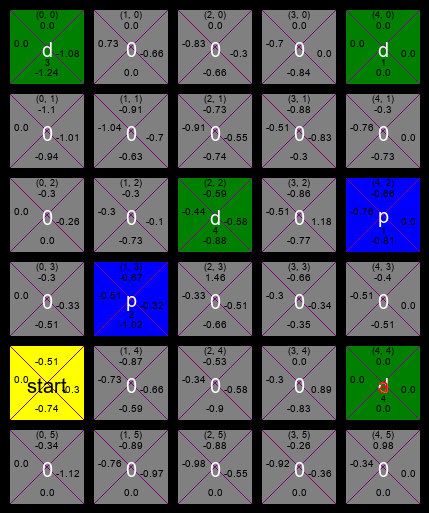
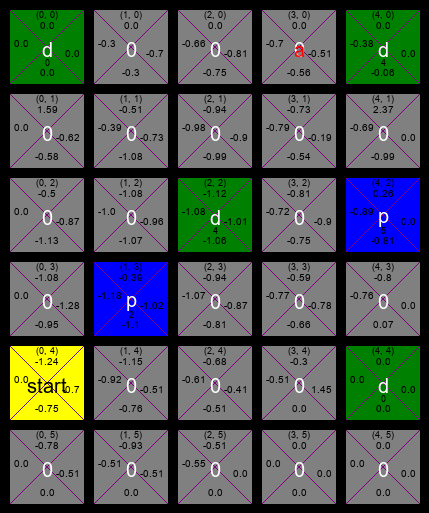
Add some more agent monitor

diff --git a/main.py b/main.py
@@ -152,7 +152,6 @@ def doSteps(steps, policy):
 
         action = ''
         reward = -1
-        print(valid_actions)
 
         if (policy == 'PRANDOM'):
             action, reward = chooseRandomAction(valid_actions)
@@ -160,8 +159,7 @@ def doSteps(steps, policy):
             action, reward = exploitAction(state, valid_actions, epsilon)
         elif (policy == 'PGREEDY'):
             action, reward = greedyAction(state, valid_actions)
-        print(action)
-        # print("action:", action)
+
 
         # has_block gets updated here
         applyAction(action)
@@ -177,7 +175,6 @@ def doSteps(steps, policy):
             round((1-alpha)*Q(state, action) + alpha*(reward + gamma*maxQ(next_state, next_valid_actions)), 2)
 
         # keep track of prev state for step visualize part
-
         prev_x = x
         prev_y = y
 
@@ -186,6 +183,7 @@ def doSteps(steps, policy):
         y = next_y
 
         # if terminal state reached
+        # reset world, put agent back at start
         if len(pick_up_loc) == 0 and len(drop_off_loc) == 0:
             print("\nTerminal state reached")
             done = True
@@ -196,6 +194,10 @@ def doSteps(steps, policy):
             has_block = False
             done = False
             _, _, world = ReadWorld().fill_world('testworld.txt')
+            updateDropAndPickSpots(h, w, q_table, False,
+                                   drop_off_loc, pick_up_loc, vis_objs['q_table_no_block'], world)
+            updateDropAndPickSpots(h, w, q_table, True,
+                                   drop_off_loc, pick_up_loc, vis_objs['q_table_with_block'], world)
             print('episode ', episode, '| agent takes:', count_steps)
             print('q_table after:')
             print(q_table)
@@ -213,29 +215,33 @@ def doSteps(steps, policy):
         count_steps += 1
 
         # visualize each step
-        if steps != 500:
+        watch = True
+
+        if steps != 500 and watch:
             print('\n' * 5)
             # print(q_table)
+            print(valid_actions)
+            print('action: {:5s}'.format(action), '| reward:', reward)
             if has_block:
-                updateCell(h, w, q_table, world, vis_objs['q_table_no_block'],
-                           has_block, prev_x, prev_y, start_x, start_y)
+                cv.destroyWindow('With no block')
                 updateCell(h, w, q_table, world, vis_objs['q_table_with_block'],
                            has_block, prev_x, prev_y, start_x, start_y)
                 putAgent(h, w, q_table, world, vis_objs['q_table_with_block'], has_block, x, y, start_x, start_y)
                 img_b = cv.imread('q_table_with_block.png')
-                cv.destroyWindow('With no block')
                 cv.imshow('With block', img_b)
                 cv.waitKey(0)
-            else:
                 updateCell(h, w, q_table, world, vis_objs['q_table_with_block'],
-                           has_block, prev_x, prev_y, start_x, start_y)
+                           has_block, x, y, start_x, start_y)
+            else:
+                cv.destroyWindow('With block')
                 updateCell(h, w, q_table, world, vis_objs['q_table_no_block'],
                            has_block, prev_x, prev_y, start_x, start_y)
                 putAgent(h, w, q_table, world, vis_objs['q_table_no_block'], has_block, x, y, start_x, start_y)
                 img_nb = cv.imread('q_table_no_block.png')
-                cv.destroyWindow('With block')
                 cv.imshow('With no block', img_nb)
                 cv.waitKey(0)
+                updateCell(h, w, q_table, world, vis_objs['q_table_no_block'],
+                           has_block, x, y, start_x, start_y)
 
     if step + 1 == SECOND_STEPS:
         print('episode ', episode, '| agent takes:', count_steps)

diff --git a/vis_funcs.py b/vis_funcs.py
@@ -13,14 +13,14 @@ def initWorld(h, w, world, world_vl, x, y):
             else:
                 world_vl.write_block(world[(c, r)]['coor'], world[(c, r)]['action'], 'white')
             world_vl.write_block(world[(c, r)]['coor'], str(world[(c, r)]['coor']), 'black', 'n', 15)
-
+    print('Done initializing visual')
 
 def updateWorld(h, w, world, world_vl):
     for r in range(h):
         for c in range(w):
             if world[(c, r)]['action'] == 'd' or world[(c, r)]['action'] == 'p':
                 world_vl.write_block(world[(c, r)]['coor'], str(world[(c, r)]['no_of_blocks']), 'black', pos='s')
-
+    print('Done updating visual')
 
 def initQTableWorld(h, w, world, world_vl, x, y):
     for r in range(h):
@@ -35,6 +35,7 @@ def initQTableWorld(h, w, world, world_vl, x, y):
                 world_vl.put_x((c, r), 'purple')
                 world_vl.write_block(world[(c, r)]['coor'], world[(c, r)]['action'], 'white')
             world_vl.write_block(world[(c, r)]['coor'], str(world[(c, r)]['coor']), 'black', 'n', 9, offset_u=10)
+    print('Done initializing q_table')
 
 def updateQTableWorld(h, w, world, world_vl, x, y):
     for r in range(h):
@@ -42,7 +43,7 @@ def updateQTableWorld(h, w, world, world_vl, x, y):
             if world[(c, r)]['action'] == 'd' or world[(c, r)]['action'] == 'p':
                 world_vl.write_block(world[(c, r)]['coor'], str(world[(c, r)]['no_of_blocks']), 'black',
                                      pos='s', font_s=9, offset_u=10)
-
+    print('Done updating q_table')
 
 def fillQValues(h, w, q_table, world_vl, has_block):
     action = ['n', 's', 'e', 'w']
@@ -55,7 +56,7 @@ def fillQValues(h, w, q_table, world_vl, has_block):
             for i, a in enumerate(action):
                 world_vl.write_block((r, c), str(q_table[state][i]), 'black',
                                      pos=a, font_s=10)
-
+    print('Done filling q_table')
 
 def putAgent(h, w, q_table, world, world_vl, has_block, x, y, start_x, start_y):
     updateCell(h, w, q_table, world, world_vl, has_block, x, y, start_x, start_y)
@@ -87,4 +88,23 @@ def updateCell(h, w, q_table, world, world_vl, has_block, prev_x, prev_y, start_
                              pos=a, font_s=10)
 
 
+def updateDropAndPickSpots(h, w, q_table, has_block, drop_off_loc, pick_up_loc, world_vl, world):
+    loc_list = drop_off_loc + pick_up_loc
+    action = ['n', 's', 'e', 'w']
+    q_offset = 0
+    for c in loc_list:
+        if world[c]['action'] == 'd': world_vl.fill_block(world[c]['coor'], 'green')
+        if world[c]['action'] == 'p': world_vl.fill_block(world[c]['coor'], 'blue')
+        world_vl.put_x(c, 'purple')
+        world_vl.write_block(world[c]['coor'], world[c]['action'], 'white')
+        world_vl.write_block(world[c]['coor'],
+                             str(world[c]['coor']), 'black', 'n', 9, offset_u=10)
+        world_vl.write_block(world[c]['coor'], str(world[c]['no_of_blocks']), 'black',
+                             pos='s', font_s=9, offset_u=10)
+        if (has_block == True):
+            q_offset = w * h
+        state = getStateFromCoords(c[1], c[0]) + q_offset
+        for i, a in enumerate(action):
+            world_vl.write_block(c, str(q_table[state][i]), 'black',
+                                 pos=a, font_s=10)
 

diff --git a/Visualize/visualize.py b/Visualize/visualize.py
@@ -28,7 +28,6 @@ class Visualize:
             draw.line([(start_p_c, 0), (start_p_c, img_h)], fill=0, width=gap + 1)
 
         img.save('%s.png' % f_name)
-        print('Done initialize visual')
 
     def fill_block(self, coor=(0, 0), color='white'):
         f_name = self.name
